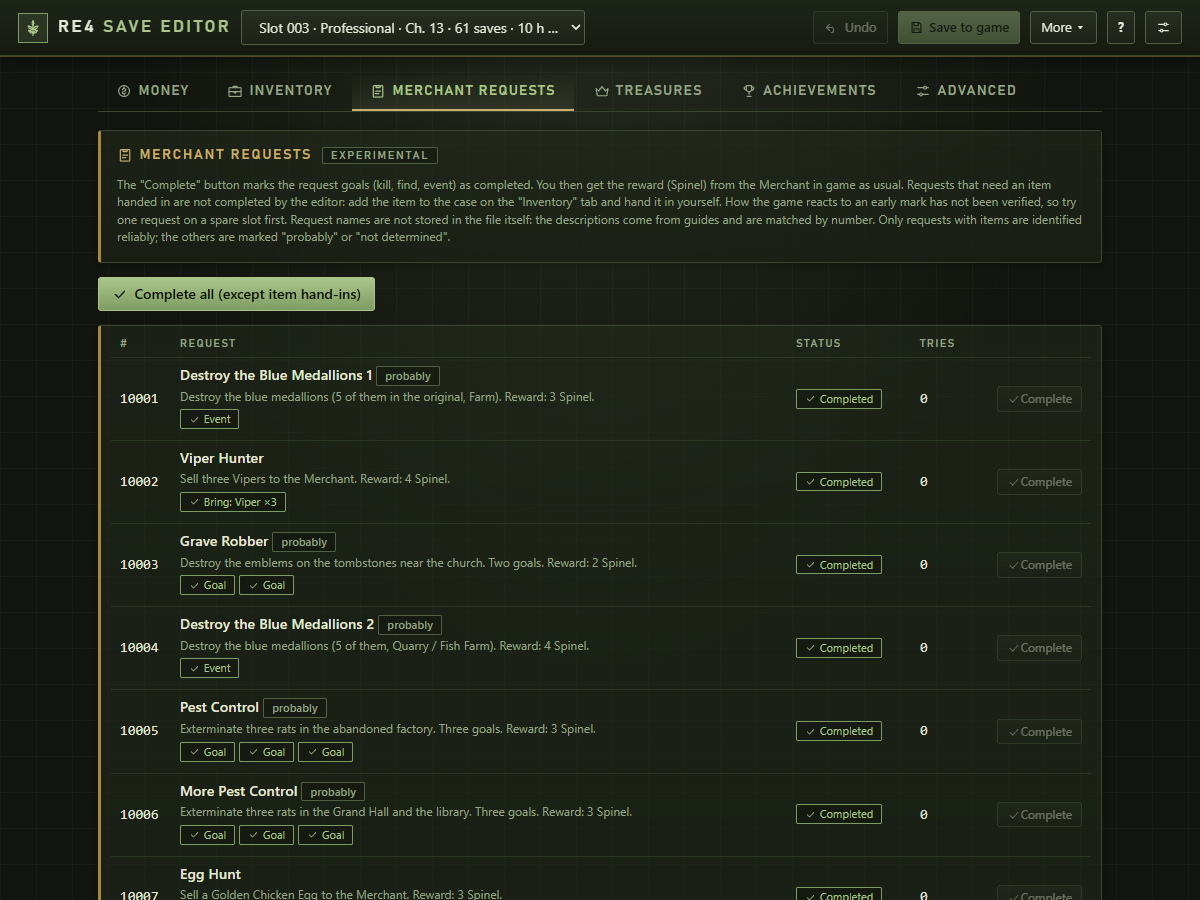
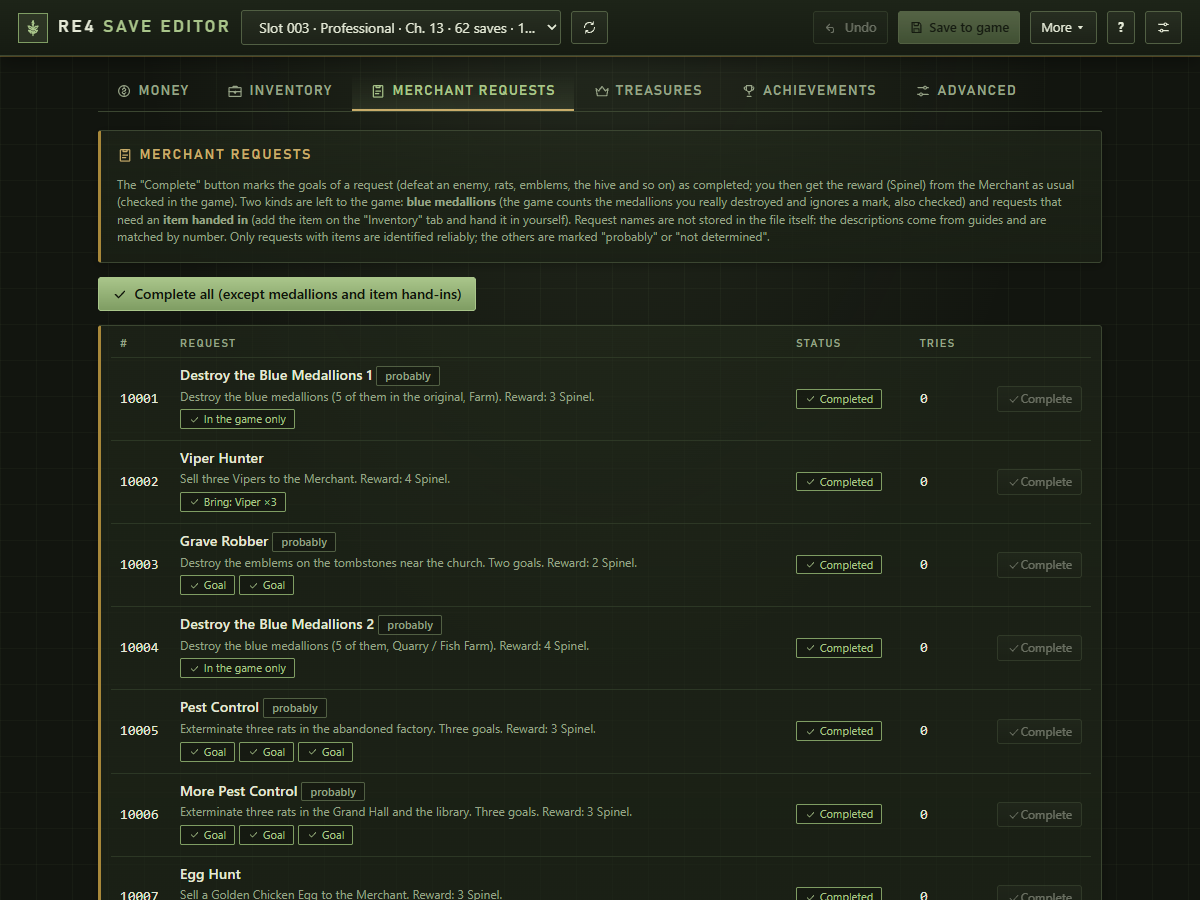
Version 0.9.7 (pre-release)
Short What's new list, release notes, Nexus page text, README and new screenshots (in English).

diff --git a/docs/RELEASE-0.9.7.md b/docs/RELEASE-0.9.7.md
@@ -1,0 +1,66 @@
+# RE4 Save Editor v0.9.7 (pre-release)
+
+An unofficial, local save editor for **Resident Evil 4 (2023 remake), Steam, Windows**. It runs on your own computer and never sends your saves anywhere.
+
+> [!WARNING]
+> **Pre-release. Use at your own risk.** Editing saves can corrupt them. The editor makes a backup before every write and keeps a protected first-run copy of every slot, but keep your own copies too. It is best to close the game before saving, and consider turning off Steam Cloud for RE4.
+
+## What is new in 0.9.7
+
+**Please update if you use 0.9.6 or older:** a few items were taken as smaller than they are, so a new item could be put on top of them and the game deleted it.
+
+- **Item sizes checked in the game:** Magnum Ammo, Submachine Gun Ammo and Resources (L) take 2 cells, the TMP Stock 3×2, the mixed herb vials 1×2.
+- **Overlap warning:** items that overlap another one or stick out of the case are shown in red, a banner names them with a **Sort the case** button, and the summary before writing warns that the game would delete them.
+- **Start screen:** every slot card shows a small picture of the slot's own case, with its look and the items in their places.
+- **Refresh** button (two arrows) next to the slot list: reads the save files again, for example after the game saved.
+- **Merchant requests:** **Complete** is checked in the game (the reward is given). Blue medallion requests are left to the game: it counts the medallions you really destroy and ignores a mark.
+
+## What was new in 0.9.6
+
+- Start screen, grenades, Upgrade all weapons / Repair knives / Fill ammo stacks, named Separate Ways requests, money limits, a question before unsaved edits are dropped, key items protected, own question windows, Ctrl+S, upgrade steps, a More menu, new key item pictures.
+
+## What you can do
+
+- **Money**: Pesetas and Spinel.
+- **Attaché case**: add, copy and delete items from a catalogue of ~220, change counts, ammo and durability, change the **case size** and the **case look** (Silver, Black, Leather, Gold, Classic).
+- **Case view**: your case lying down like in the game, with original 3D-rendered icons for every item and weapon. Drag items to move them, rotate them, or press **Sort** to tidy the case.
+- **Weapons**: add a new one or copy one from another slot; upgrade levels 0-4, **Full upgrade**, **Upgrade all weapons** and a switch for the exclusive upgrade.
+- **Merchant requests**, **treasures**, **achievements** (read-only hints) and an **Advanced** raw field view (asks for a one-time confirmation).
+- **Safety**: a "game is running" warning, a summary of every change before writing, writes that are decrypted back and compared before they replace the file, a backup manager and restore, copying one slot into another.
+
+## Download
+
+**`RE4SaveEditor-0.9.7-windows-allinone.zip`** (38.7 MB): extract it anywhere and double-click `Start RE4 Save Editor.js`. Nothing to install: Node.js is inside and the save encryption is built in. If Windows asks whether to run the script, choose Open / Run; if `Start RE4 Save Editor.js` opens in a text editor, use "Open with > Microsoft Windows Based Script Host".
+
+SHA-256:
+
+```text
+f91ffd028fe4d0a9075299dca9303b5c61a5dd8e0f99a4b4e483fdae4acf3140  RE4SaveEditor-0.9.7-windows-allinone.zip
+```
+
+A smaller script-only package (needs [Node.js](https://nodejs.org) 20+ installed) is published on Nexus Mods. To build from source: `git clone`, run `build.bat` once, then `start.bat`.
+
+**VirusTotal:** [report for this file](https://www.virustotal.com/gui/file/f91ffd028fe4d0a9075299dca9303b5c61a5dd8e0f99a4b4e483fdae4acf3140).
+
+## Quick start
+
+1. Preferably close the game (writing from the main menu and then loading the slot also works).
+2. Start the editor, pick a slot on the start screen, edit, press **Save to game**. A summary of the changes is shown first.
+3. **More > Restore from backup...** undoes a write at any time.
+
+The save folder (`<Steam>/userdata/<account>/2050650/remote/win64_save`) is found automatically; use the gear button if you have several Steam accounts.
+
+## Known limitations
+
+- Item sizes in the case are taken from real layouts; a few items may still look different in the game.
+- Weapon upgrade levels are limited to 0-4 (the highest seen in real saves). Some weapons have fewer upgrades; the editor does not know which.
+- Not every weapon can be added as new: the main-game W-870, Striker, TMP, CQBR, Broken Butterfly, Bolt Thrower, the rocket launchers and some knives are not in the list. Eggs cannot be added.
+- Names of merchant requests are not stored in the save; the mapping is partly inferred.
+- Tested on a limited set of saves and one game version; a game patch may change the save format (the editor then disables structural edits and says so).
+- Windows and the Steam version only.
+
+## Feedback
+
+Please open an issue and describe what happened (the editor's **Copy diagnostics** button gives a report without personal data). Please **do not attach your save files** to an issue: a save is tied to your Steam account number (not your password or e-mail), which would become public.
+
+Full list of changes: [CHANGELOG.md](https://github.com/distrix11/RE4-Remake-Save-Editor/blob/main/CHANGELOG.md).

diff --git a/CHANGELOG.md b/CHANGELOG.md
@@ -1,6 +1,13 @@
 # Changelog
 
-## Unreleased (for 0.9.7)
+## 0.9.7 (pre-release)
+- **Fixed item sizes** (checked in the game): Magnum and SMG ammo, large resources, mixed herb vials and the TMP stock. Before, a new item could be put on top of them and the game deleted it.
+- Items that overlap or stick out of the case are shown in **red**, with a **Sort the case** button and a warning before writing.
+- **Start screen**: every slot shows a small picture of its own case.
+- **Refresh** button next to the slot list.
+- Merchant requests: blue medallion requests are left to the game (it counts the medallions you really destroy).
+
+### Details
 - Case sizes checked in the game: Magnum Ammo, Submachine Gun Ammo and Resources (L) take 2 cells, the TMP Stock 3×2, the mixed herb vials 1×2. Before, a new item could be put on top of them.
 - Merchant requests: **Complete** is checked in the game for the request goals (the reward is given). Blue medallion requests are left to the game: it counts the medallions really destroyed and ignores a mark.
 - Items that overlap another one or stick out of the case are shown in red, a banner names them with a **Sort the case** button, and the summary before writing warns that the game would delete them.

diff --git a/README.md b/README.md
@@ -13,9 +13,9 @@ It runs on your own computer, opens in your browser or its own window and never 
 > Editing saves can corrupt them. The editor makes a backup before every write, but keep your own copies too.
 
 > [!NOTE]
-> This is a pre-release (0.9.6). It has been tested on a limited set of saves; please report what you find.
+> This is a pre-release (0.9.7). It has been tested on a limited set of saves; please report what you find.
 
-**New in 0.9.6:** a start screen with your slots, grenades, Upgrade all weapons / Repair knives / Fill ammo stacks, named Separate Ways requests, safer editing (money limits, a question before unsaved edits are dropped, key items protected), new key item pictures. [Release notes](https://github.com/distrix11/RE4-Remake-Save-Editor/releases/tag/v0.9.6)
+**New in 0.9.7:** item sizes checked in the game (some items could be put on top of others and the game deleted them), a warning for items that overlap, a mini case on every slot card, a refresh button. [Release notes](https://github.com/distrix11/RE4-Remake-Save-Editor/releases/tag/v0.9.7)
 
 ## Features
 
